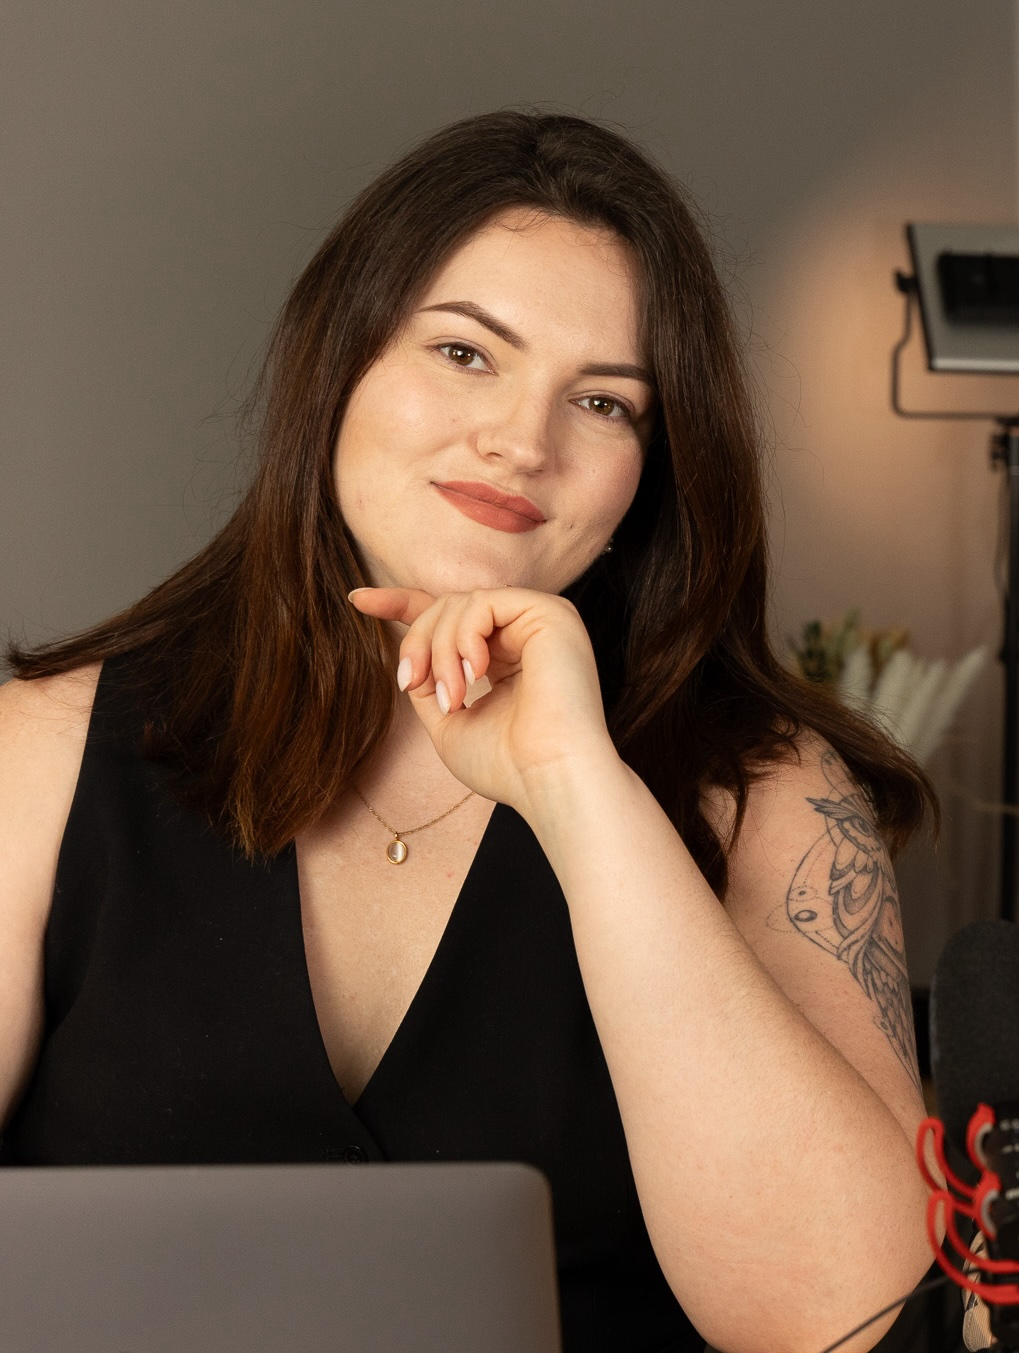
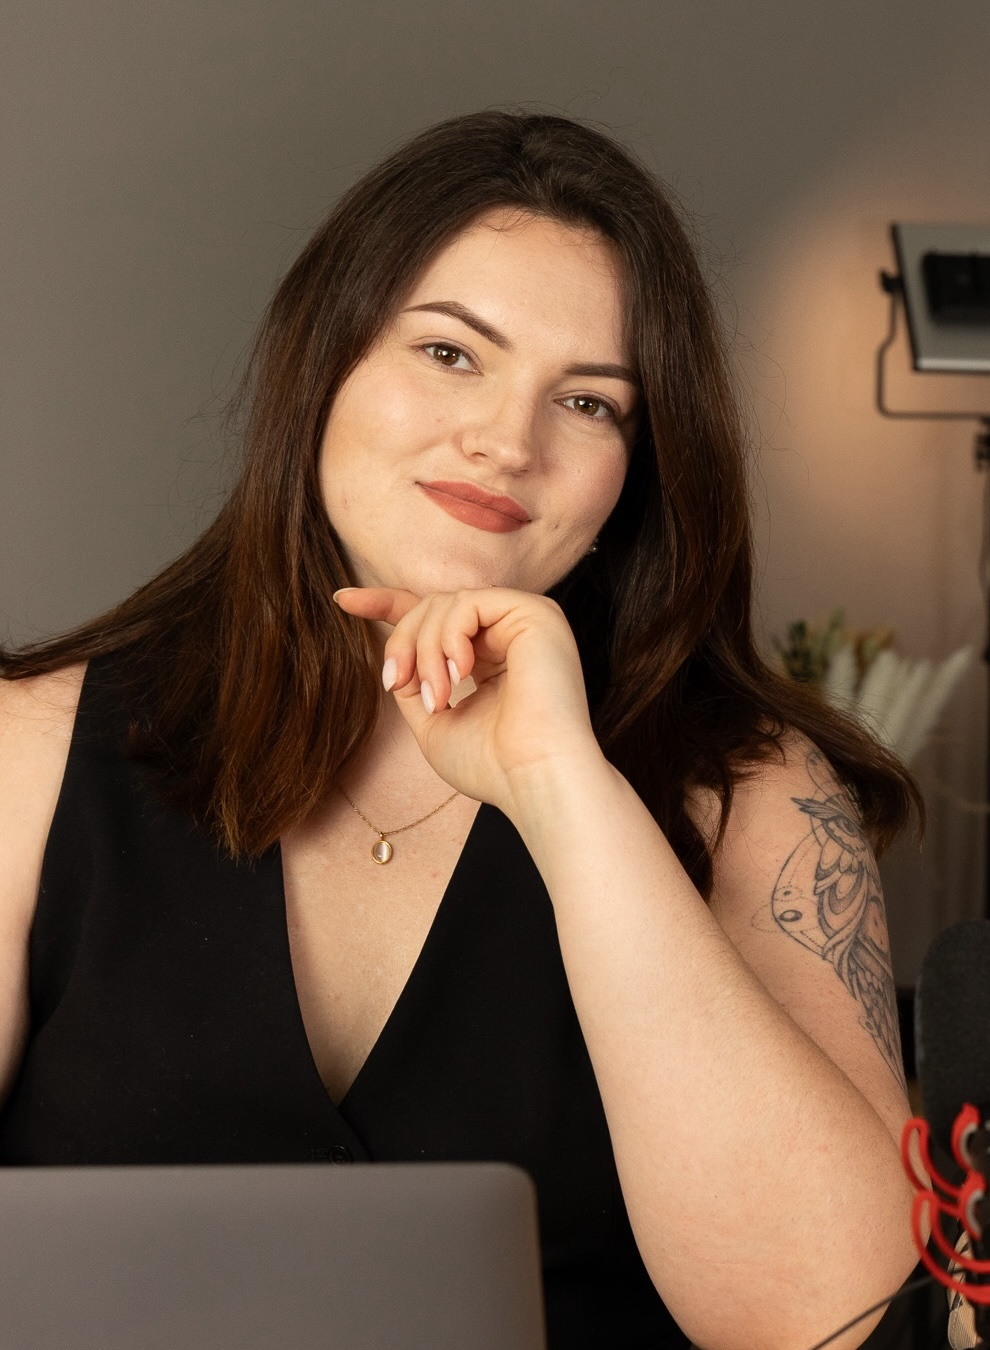
Add files via upload

diff --git a/index.html b/index.html
@@ -375,20 +375,26 @@
     }
     .speaker-photo-placeholder {
       width: 100%;
-      aspect-ratio: 4/3;
-      background: linear-gradient(135deg, #1a4fc4 0%, #0a0a0a 100%);
+      aspect-ratio: 4/5;
+      background: #e4e4e7;
       display: flex;
       align-items: center;
       justify-content: center;
+      position: relative;
+      overflow: hidden;
     }
     .speaker-photo-placeholder svg {
       opacity: 0.2;
-      color: white;
+      color: #6b7280;
+      position: absolute;
     }
     .speaker-photo-placeholder img {
+      position: absolute;
+      inset: 0;
       width: 100%;
       height: 100%;
       object-fit: cover;
+      object-position: center top;
       display: block;
     }
     .speaker-info { padding: 32px 32px 36px; }
